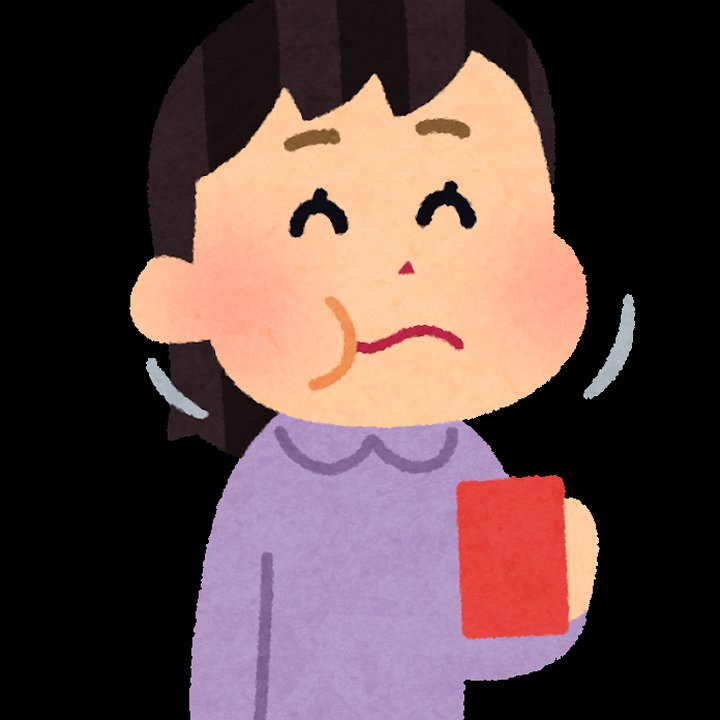
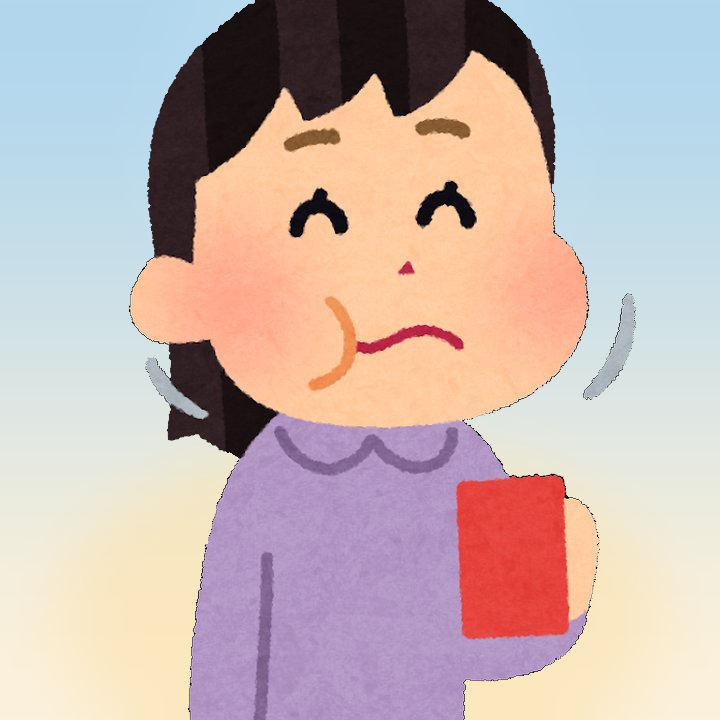
fix: fill the Unit 2 pack picture with a soft sky
The portrait sat on a black field, so the pack frame showed black bars. A cream-and-sky fill now sits behind the art, and the pack frame uses the same light sky.

diff --git a/test/home-nav.test.js b/test/home-nav.test.js
@@ -2,6 +2,7 @@ const test = require('node:test');
 const assert = require('node:assert/strict');
 const fs = require('node:fs');
 const path = require('node:path');
+const { execFileSync } = require('node:child_process');
 
 const root = path.join(__dirname, '..');
 
@@ -39,8 +40,44 @@ test('packs are a swipe carousel, not a grid', () => {
   assert.equal((html.match(/class="pack-card/g) || []).length, 5);
   const css = fs.readFileSync(path.join(root, 'assets/site.css'), 'utf8');
   assert.match(css, /scroll-snap-type:\s*x mandatory/);
+  const cover = css.slice(css.indexOf('.pack-cover {'), css.indexOf('.pack-body'));
+  assert.match(cover, /background:\s*color-mix\(in srgb, var\(--sky\) 42%, #fff\)/);
+  assert.doesNotMatch(cover, /#000|black/);
+  assert.match(html, /covers\/unit2\.jpg\?v=2/);
+  assert.equal(html.includes('site.css?v=32'), true);
   assert.match(css, /\.nav-jump[\s\S]*border:\s*0/);
   assert.match(css, /\.nav-jump[\s\S]*box-shadow:\s*none/);
+});
+
+test('pack covers have no black letterbox bars', () => {
+  const script = `
+from PIL import Image
+import os
+root = ${JSON.stringify(root)}
+names = ['unit1.jpg', 'unit2.jpg', 'unit3.jpg', 'unit4.jpg', 'dictation3.jpg']
+for folder in ('covers', 'home-eduhome/covers'):
+    for name in names:
+        im = Image.open(os.path.join(root, folder, name)).convert('RGB')
+        w, h = im.size
+        px = im.load()
+        edges = {
+            'top': [(x, 0) for x in range(w)],
+            'bottom': [(x, h - 1) for x in range(w)],
+            'left': [(0, y) for y in range(h)],
+            'right': [(w - 1, y) for y in range(h)],
+        }
+        for edge, coords in edges.items():
+            dark = 0
+            for x, y in coords:
+                r, g, b = px[x, y]
+                if r < 24 and g < 24 and b < 24:
+                    dark += 1
+            if dark / len(coords) > 0.45:
+                raise SystemExit(folder + '/' + name + ' ' + edge + ' ' + str(dark))
+print('ok')
+`;
+  const out = execFileSync('python3', ['-c', script], { encoding: 'utf8' });
+  assert.match(out, /ok/);
 });
 
 test('badges page has no illustration caption and the same two links', () => {

diff --git a/index.html b/index.html
@@ -8,7 +8,7 @@
   <link rel="preconnect" href="https://fonts.googleapis.com" />
   <link rel="preconnect" href="https://fonts.gstatic.com" crossorigin />
   <link href="https://fonts.googleapis.com/css2?family=Fredoka:wght@500;600;700&family=Nunito:wght@400;500;600;700&family=Noto+Sans+TC:wght@400;500;700&display=swap" rel="stylesheet" />
-  <link rel="stylesheet" href="assets/site.css?v=31" />
+  <link rel="stylesheet" href="assets/site.css?v=32" />
   <link rel="stylesheet" href="assets/profile.css?v=2" />
 </head>
 <body>
@@ -99,7 +99,7 @@
               </div>
             </article>
             <article class="pack-card tone-green reveal reveal-delay-2" aria-roledescription="slide" aria-label="Unit 2 of 5">
-              <div class="pack-cover"><img src="covers/unit2.jpg" alt="Unit 2 cover: Lend a helping hand" width="640" height="480" loading="lazy" /></div>
+              <div class="pack-cover"><img src="covers/unit2.jpg?v=2" alt="Unit 2 cover: Lend a helping hand" width="640" height="480" loading="lazy" /></div>
               <div class="pack-body">
                 <h3>Unit 2 · Lend a helping hand</h3>
                 <p>Natural disasters and how we help. drought, flood, rescue.</p>

diff --git a/assets/site.css b/assets/site.css
@@ -458,13 +458,14 @@ button { font: inherit; color: inherit; background: none; border: 0; padding: 0;
   aspect-ratio: 5 / 4;
   max-height: 18rem;
   overflow: hidden;
-  background: rgba(255,255,255,0.45);
+  background: color-mix(in srgb, var(--sky) 42%, #fff);
   border-radius: calc(var(--radius) - 6px);
 }
 .pack-cover img {
   width: 100%;
   height: 100%;
   object-fit: cover;
+  background: color-mix(in srgb, var(--sky) 42%, #fff);
   -webkit-user-drag: none;
   user-select: none;
 }

diff --git a/home-eduhome/index.html b/home-eduhome/index.html
@@ -651,7 +651,7 @@
           </a>
           <a class="unit-card accent-sky" href="unit2/index.html">
             <div class="unit-cover">
-              <img src="covers/unit2.jpg" alt="Unit 2 cover" loading="lazy" decoding="async" />
+              <img src="covers/unit2.jpg?v=2" alt="Unit 2 cover" loading="lazy" decoding="async" />
             </div>
             <div class="unit-body">
               <h3>Unit 2 Lend a helping hand</h3>
